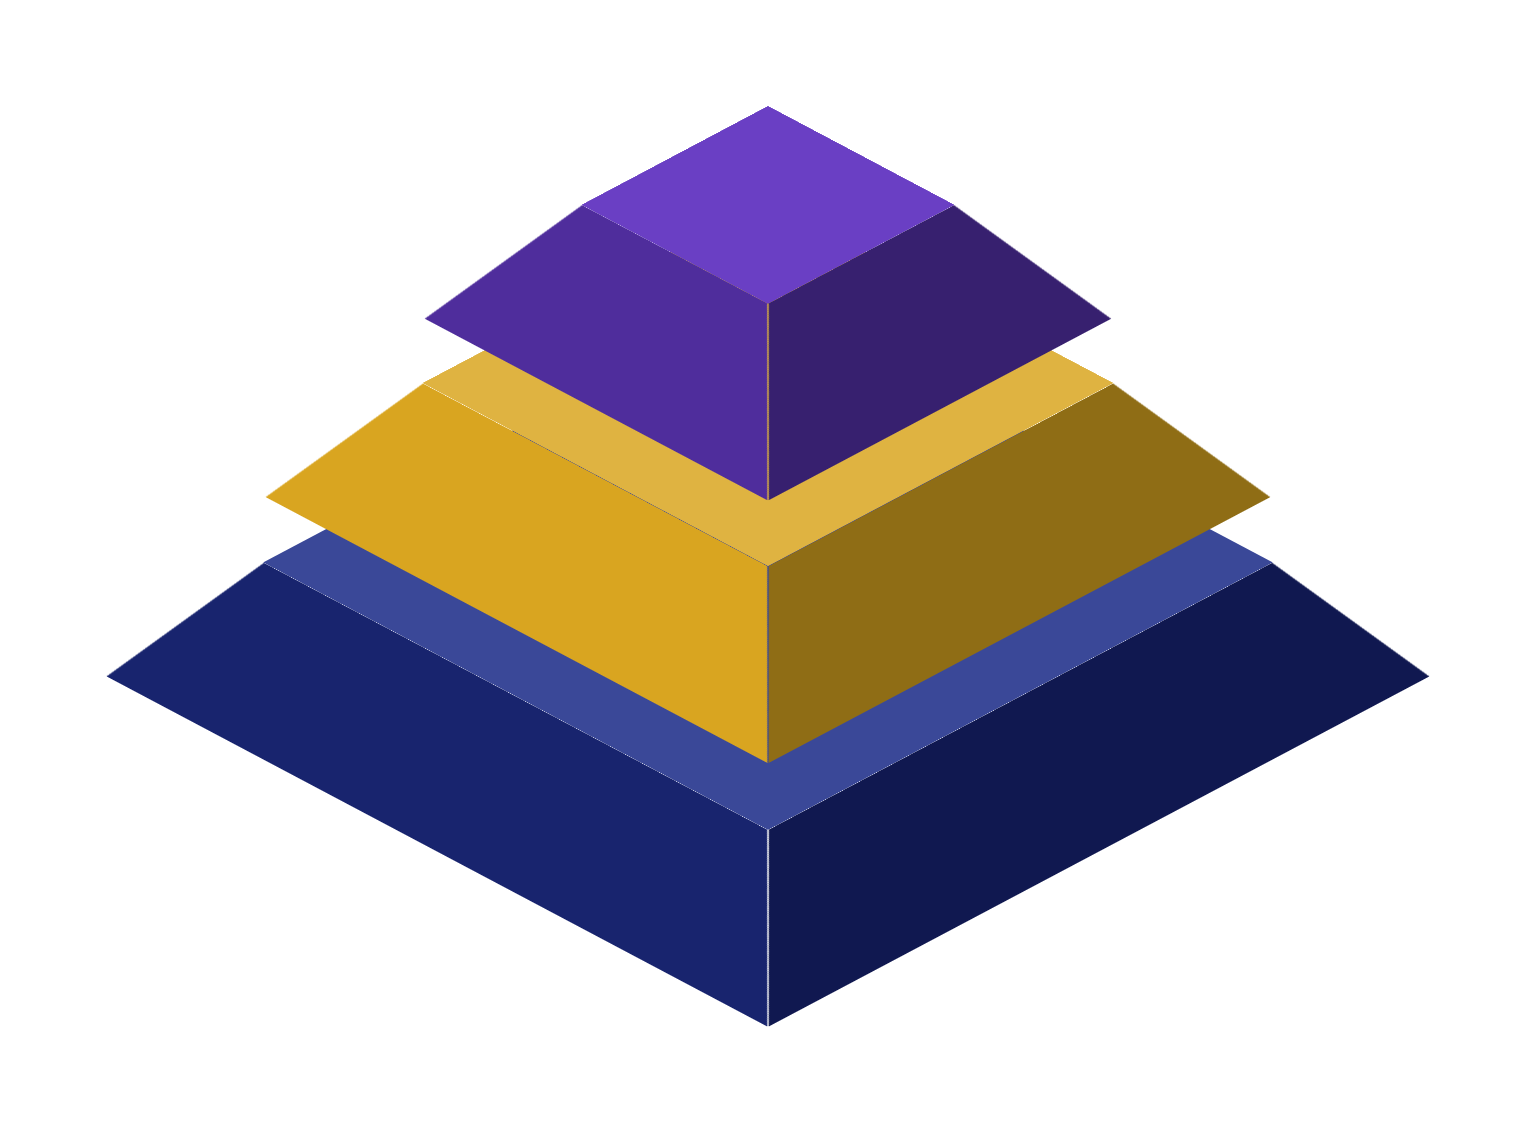
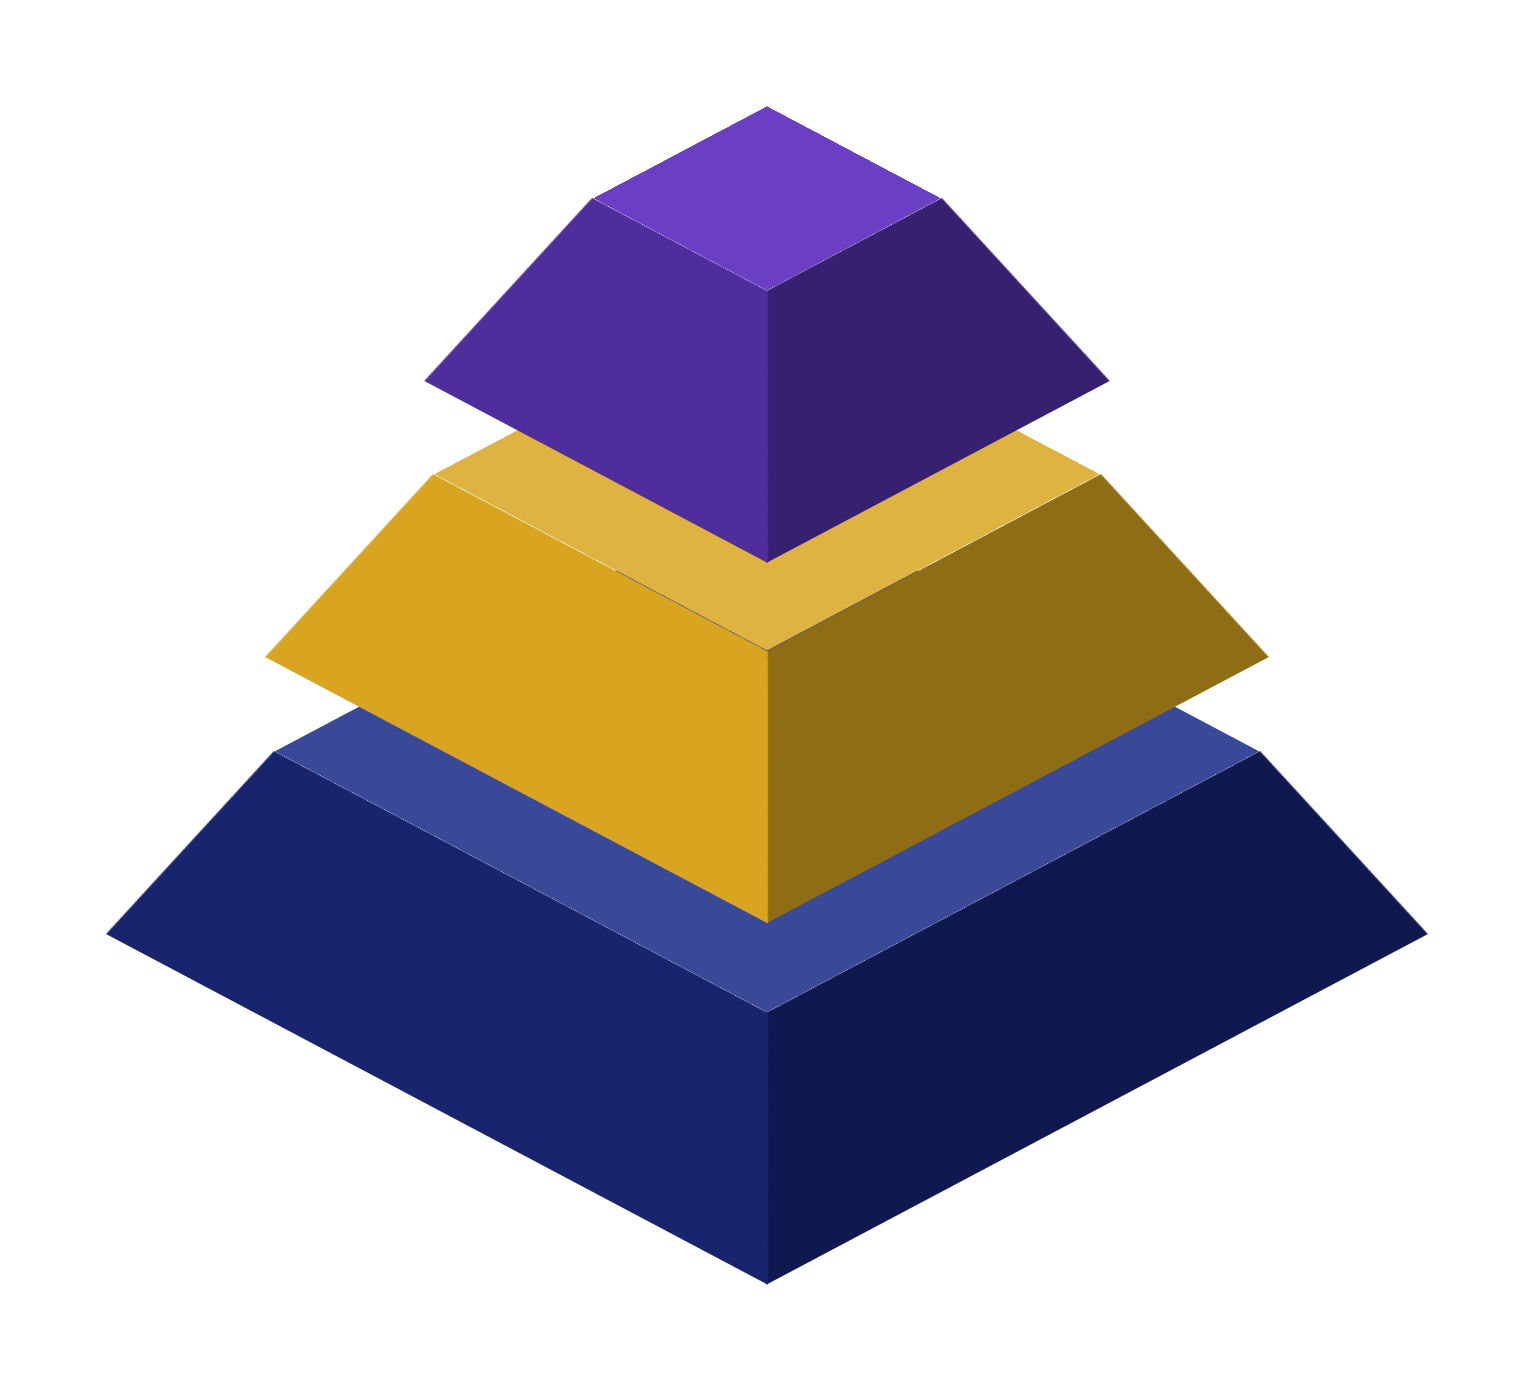
Cultural Materialism: taller pyramid slabs; Model 1 card as the v2 pyramid; CEM diagram at 1.15x
Claude-Session: https://claude.ai/code/session_01LgHoU9QwZ5ZurXZhgzwbWe

diff --git a/diagram/index.html b/diagram/index.html
@@ -1908,7 +1908,7 @@
     /* Cultural Materialism's slabs are sections of a pyramid too, a little
        steeper (each drawn in by half the step between them) */
     .structures-view .st-block {
-      --taper: 0.83;
+      --taper: 0.55;
     }
 
     /* (its first slab, which slides in and splits, in the infrastructure's
@@ -3844,7 +3844,7 @@
     </section>
 
     <section class="structures-view" aria-label="Cultural Materialism: Infrastructure-Structure-Superstructure">
-    <div class="model-save-row"><a class="model-save" href="../assets/downloads/cultural-materialism.png?v=700a56d9" download="Cultural Materialism - Infrastructure-Structure-Superstructure.png"><svg viewBox="0 0 24 24" fill="none" stroke="currentColor" stroke-width="1.6" stroke-linecap="round" stroke-linejoin="round" aria-hidden="true"><path d="M4 15v3.5A1.5 1.5 0 0 0 5.5 20h13a1.5 1.5 0 0 0 1.5-1.5V15"/><g class="arrow"><path d="M12 4v11"/><path d="M8 11l4 4 4-4"/></g></svg><span>Download diagram</span></a></div>
+    <div class="model-save-row"><a class="model-save" href="../assets/downloads/cultural-materialism.png?v=d8917dfa" download="Cultural Materialism - Infrastructure-Structure-Superstructure.png"><svg viewBox="0 0 24 24" fill="none" stroke="currentColor" stroke-width="1.6" stroke-linecap="round" stroke-linejoin="round" aria-hidden="true"><path d="M4 15v3.5A1.5 1.5 0 0 0 5.5 20h13a1.5 1.5 0 0 0 1.5-1.5V15"/><g class="arrow"><path d="M12 4v11"/><path d="M8 11l4 4 4-4"/></g></svg><span>Download diagram</span></a></div>
       <div class="stack-layout">
         <div class="stack-scene" aria-hidden="true"><div class="st-stack"></div></div>
         <div class="stack-side">
@@ -4494,7 +4494,7 @@
             detail: '<p class="st-detail-name st-detail-name-only">' + L.name + '<span class="name-sep">:</span> ' + L.aka + '</p>' +
               '<p class="st-detail-def">' + L.def + '</p>'
           };
-        }), { SIZE: 312, H: 45, TRIM: 75, STEP: 700, prelude: { n: structuresFromStack ? 4 : 1, SIZE: 312, H: 55, TRIM: 38, STEP: 520, taper: 0.83 } });
+        }), { SIZE: 312, H: 72, TRIM: 75, STEP: 700, prelude: { n: structuresFromStack ? 4 : 1, SIZE: 312, H: 55, TRIM: 38, STEP: 520, taper: 0.55 } });
       }
       // the alternative view of the structures: the three layers, one above
       // the other, and how each acts on its neighbour
@@ -5653,15 +5653,16 @@
           g += fr(GOLD, 104, 160, 22, 24) + fr(VIOLET, 66, 112, 22, 24);
         }
         if (key === 'complex') {
-          // the stack: the ecostructure and biostructure beneath, the core
-          // on them, the axis of the metastructure through them all
-          // (the cosmostructure, ecostructure and biostructure beneath, then
-          // the infrastructure, interstructure and superstructure, in the
-          // colours of the Complex Emergence Model page)
-          [['#3b55a0', 154, 130, 7], ['#3f9e55', 132, 115, 7], ['#c2526b', 110, 101, 7], [MIDNIGHT, 70, 80, 10], [GOLD, 70, 61, 10], [VIOLET, 70, 42, 10]].forEach(function (k) {
-            g += cemSlab(k[0], 150, k[2], k[1], k[3]);
-          });
-          g += '<path class="ln" stroke-dasharray="2 4" d="M150 18V24"/><circle cx="150" cy="13" r="5" fill="none" stroke="var(--muted)" stroke-width="1.2"/>';
+          // the stack, the axis of the metastructure above it
+          // (v2: each a section of a pyramid - the black cosmostructure,
+          // the ecostructure and biostructure narrowing above it, then the
+          // core of infrastructure, interstructure, substructure and
+          // superstructure, narrowing again; colours as on the CEM page)
+          var cfr = function (c, y, w, h, t) { return '<g style="--top:color-mix(in srgb, ' + c + ' 85%, #fff);--left:' + c + ';--right:color-mix(in srgb, ' + c + ' 64%, #000)">' + ovFrustum(150, y, w, h, t) + '</g>'; };
+          g += '<g style="--top:#46464c;--left:#222226;--right:#0b0b0d">' + ovFrustum(150, 130, 116, 14, 7) + '</g>';
+          g += cfr('#3f9e55', 116, 98, 14, 7) + cfr('#c2526b', 102, 80, 14, 7);
+          g += cfr(MIDNIGHT, 68, 58, 12, 2) + cfr(GOLD, 52, 50, 12, 2) + cfr('#c2526b', 42, 26, 6, 2) + cfr(VIOLET, 22, 40, 9, 3);
+          g += '<path class="ln" stroke-dasharray="2 3" d="M150 15V20"/><circle cx="150" cy="9" r="4.5" fill="none" stroke="var(--muted)" stroke-width="1.2"/>';
         }
         if (key === 'exoendo') {
           // human agency at the centre, the membrane around it, and the

diff --git a/model/index.html b/model/index.html
@@ -879,7 +879,7 @@
     }
 
     .md-scene .md-svg.md-v2 {
-      width: min(100%, 1600px, calc((100svh - 144px) * 0.732));
+      width: min(100%, 1600px, calc((100svh - 144px) * 0.842));
     }
 
     @media (max-width: 900px) {
@@ -998,9 +998,9 @@
         width: min(calc(100% - 560px), 1080px, calc((100svh - 144px) * 0.774));
       }
 
-      /* v2 at its own size */
+      /* v2 at 1.15 times the size */
       .md-scene .md-svg.md-v2 {
-        width: min(calc(100% - 540px), 1600px, calc((100svh - 144px) * 0.729));
+        width: min(calc(100% - 540px), 1600px, calc((100svh - 144px) * 0.838));
       }
 
       .md-scene-text {
@@ -1408,7 +1408,7 @@
        page draws them, each leading to its model, in a row above the title:
        Cultural Materialism, the Four Quadrants and the Emergence Model -->
   <div class="md-corners">
-    <a class="md-corner md-corner-bl md-corner-small" href="../diagram/#structures" aria-label="Cultural Materialism: Infrastructure-Structure-Superstructure"><img src="../assets/models/cultural-materialism.png?v=895e59ad" alt="" width="708" decoding="async"><span class="md-corner-label">Cultural Materialism:<br>Infrastructure-Structure-<br>Superstructure</span></a>
+    <a class="md-corner md-corner-bl md-corner-small" href="../diagram/#structures" aria-label="Cultural Materialism: Infrastructure-Structure-Superstructure"><img src="../assets/models/cultural-materialism.png?v=fc8ab22c" alt="" width="708" decoding="async"><span class="md-corner-label">Cultural Materialism:<br>Infrastructure-Structure-<br>Superstructure</span></a>
     <a class="md-corner md-corner-top" href="../diagram/#four-quadrants" aria-label="Integral Model: Four Quadrants"><img src="../assets/models/integral.png?v=49a60a9f" alt="" width="800" decoding="async"><span class="md-corner-label">Integral Model: Four Quadrants</span></a>
     <a class="md-corner md-corner-br" href="../diagram/#emergence-model" aria-label="The Emergence Model"><img src="../assets/models/emergence.png?v=db003d34" alt="" width="800" decoding="async"><span class="md-corner-label">The Emergence Model</span></a>
   </div>
